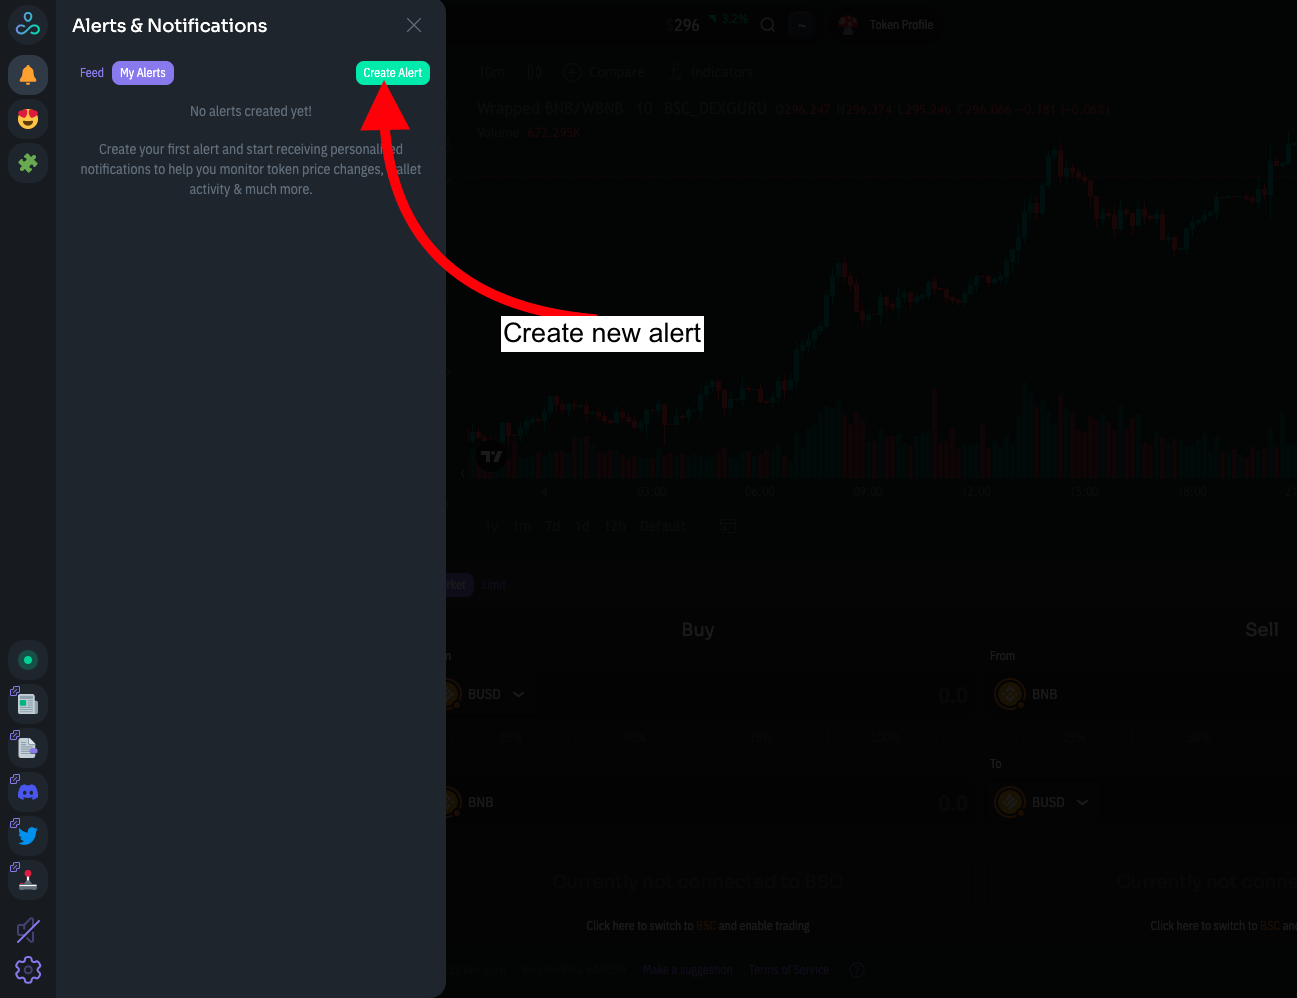
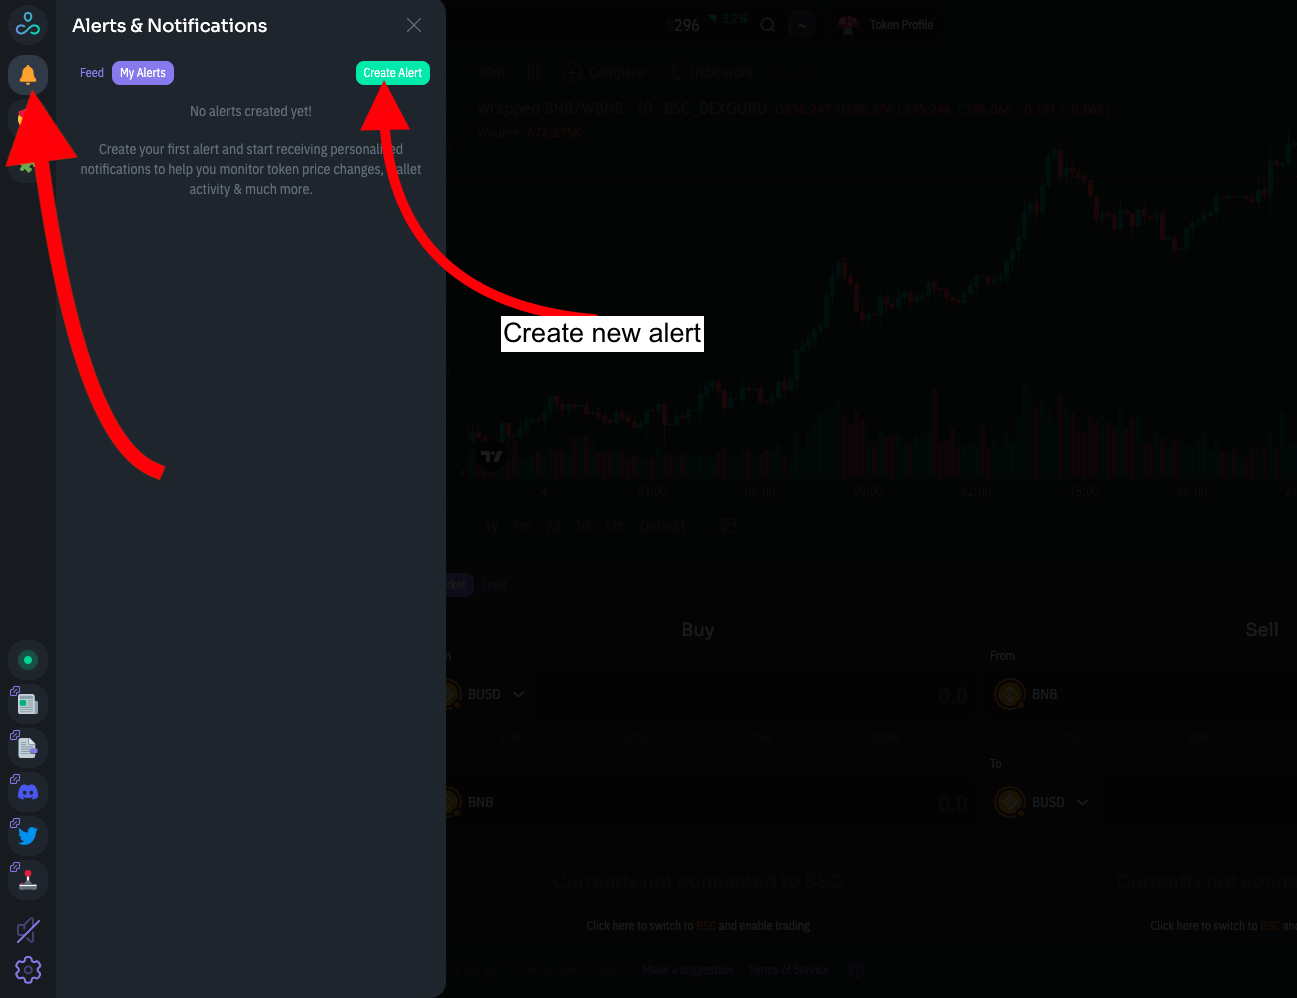
GitBook: [#292] No subject

Changed region(s): [[0.0, 0.0932, 0.1234, 0.497]]

diff --git a/general/how-to/enable-price-alerts.md b/general/how-to/enable-price-alerts.md
@@ -34,7 +34,7 @@ Press a heart button to add a token to your Favorites.
 
 Create a new alert if you do not have one.
 
-<figure><img src="../../.gitbook/assets/Screen Shot 2022-10-04 at 5.29.41 PM.png" alt=""><figcaption><p>Create Alert</p></figcaption></figure>
+<figure><img src="../../.gitbook/assets/Screen Shot 2022-10-04 at 5.29.41 PM (1).png" alt=""><figcaption><p>Create Alert</p></figcaption></figure>
 
 Edit an existing alert if you already have one.&#x20;
 
@@ -42,13 +42,11 @@ Edit an existing alert if you already have one.&#x20;
 
 ### **5.** Make sure Telegram is set as a delivery channel and customize your price threshold.
 
-In the example below the threshold is set to 10%, meaning when a token’s price changes more than 10% during the last 30 minutes, you will receive a push notification. The threshold you set will apply to all tokens in your Favorites.
-
-![](<../../.gitbook/assets/5. Set desired threshold in percents..png>)
+<figure><img src="../../.gitbook/assets/Screen Shot 2022-10-04 at 5.41.35 PM.png" alt=""><figcaption></figcaption></figure>
 
 ### 6. **Save your changes.**
 
-![](<../../.gitbook/assets/6. Save your changes..png>)
+<figure><img src="../../.gitbook/assets/Screen Shot 2022-10-04 at 5.48.32 PM.png" alt=""><figcaption></figcaption></figure>
 
 ###
 

diff --git a/general/features/alerts-and-notifications.md b/general/features/alerts-and-notifications.md
@@ -18,4 +18,4 @@ You can change the 10% threshold by going to My Alerts and looking for the edit 
 
 <figure><img src="../../.gitbook/assets/Screen Shot 2022-10-04 at 2.57.41 PM.png" alt=""><figcaption><p>Customize the threshold</p></figcaption></figure>
 
-Besides seeing price notifications for your Favorites😍 inside DexGuru's interface, you can receive them straight to your Telegram account. Read how to set up Telegram notifications here.&#x20;
+Besides seeing price notifications for your Favorites😍 inside DexGuru's interface, you can receive them straight to your Telegram account. Read how to set up Telegram notifications [here](../how-to/enable-price-alerts.md).&#x20;
